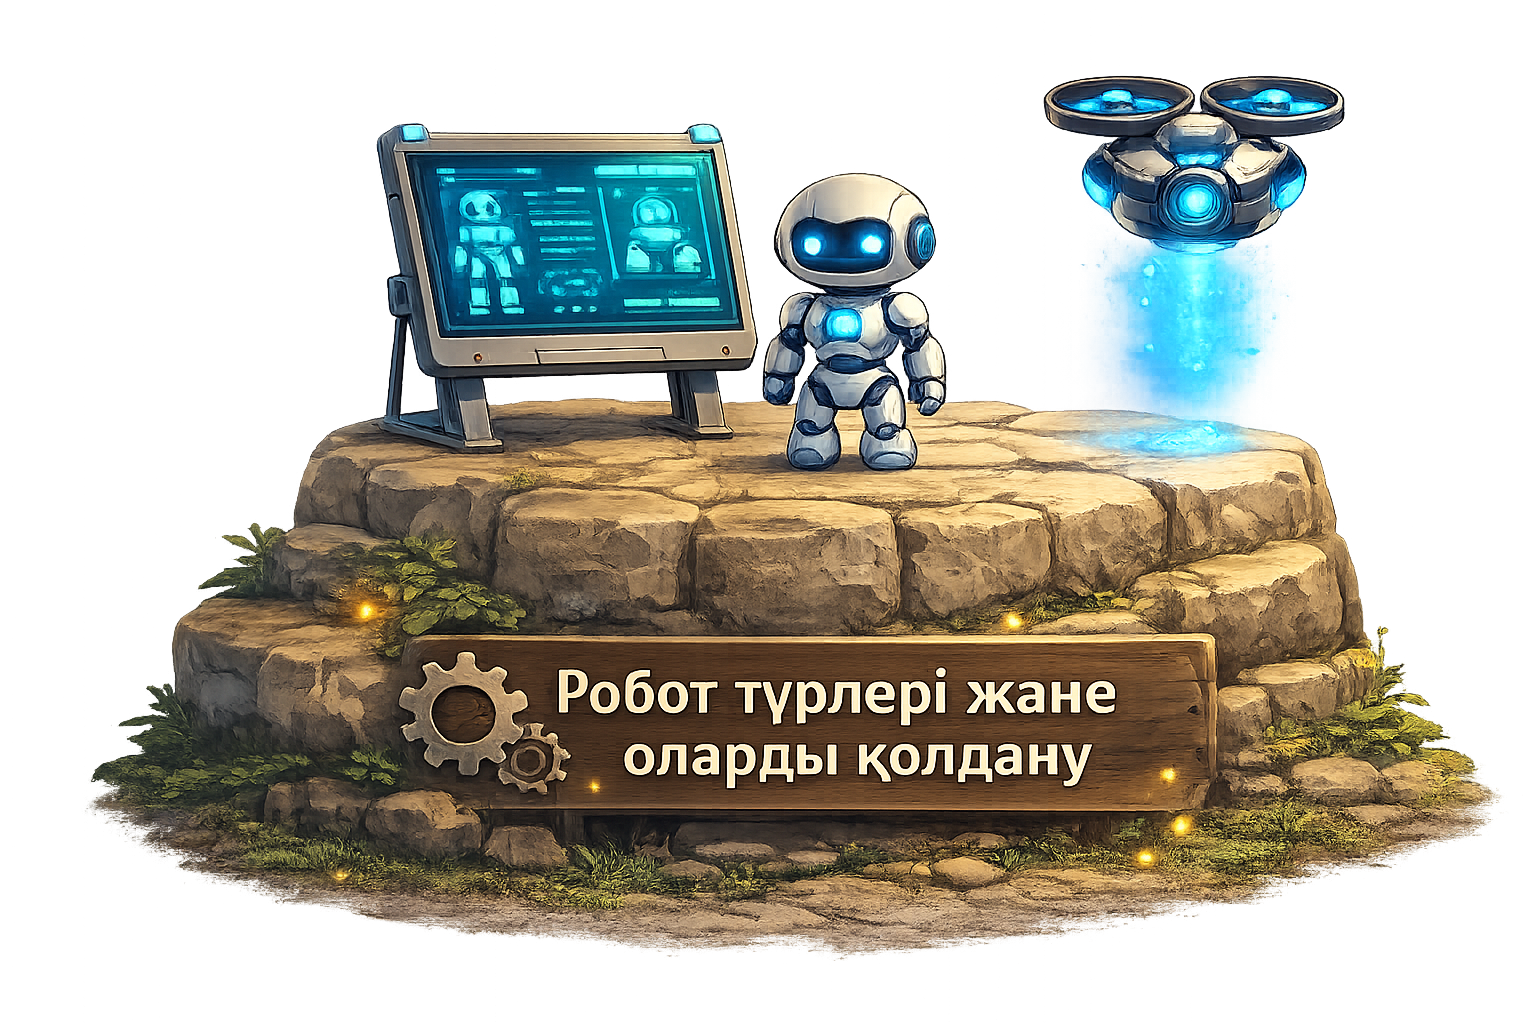
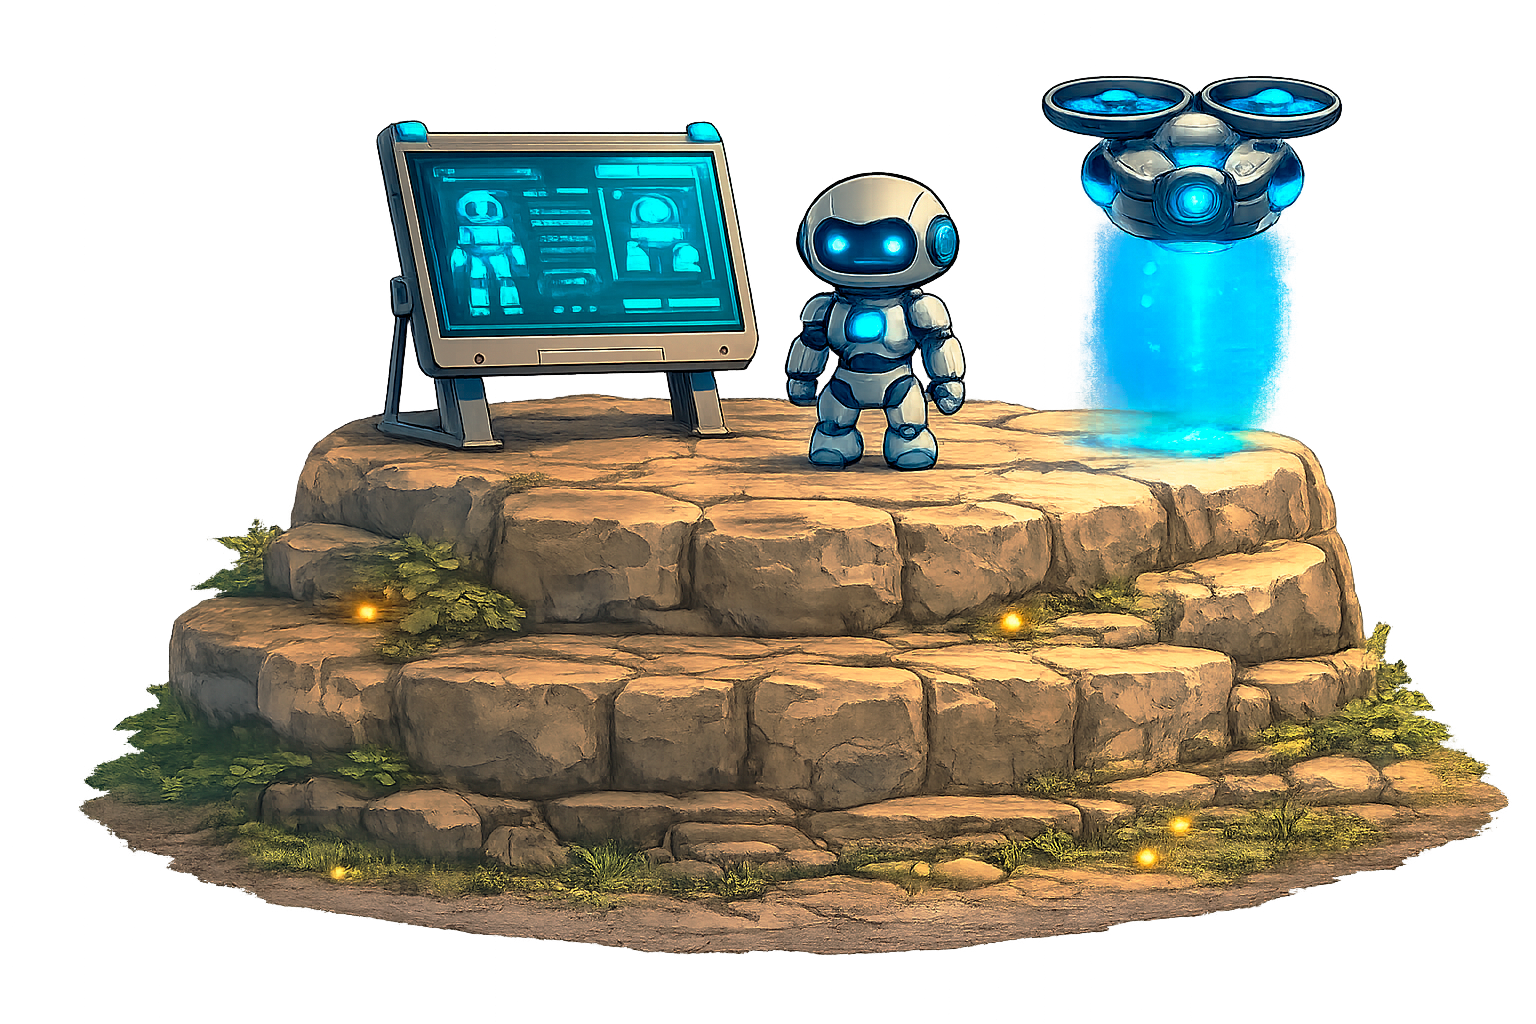
Fix

Changed region(s): [[0.0312, 0.0625, 1.0, 0.9375]]

diff --git a/templates/toqsan_3.html b/templates/toqsan_3.html
@@ -25,10 +25,10 @@
 
 <svg class="p-paths" viewBox="0 0 1000 600" preserveAspectRatio="none" aria-hidden="true">
 
-  <path id="path-01" d="M220,100 C200,100 300,180 500,100" />
-  <path id="path-12" d="M500,130 C600,150 700,80 800,90" />
-  <path id="path-23" d="M690,115 C550,150 400,300 400,300" />
-  <path id="path-34" d="M370,350 C330,380 300,400 200,470" />
+  <path id="path-01" d="M220,100 C200,100 300,180 450,120" />
+  <path id="path-12" d="M450,130 C600,150 700,80 750,100" />
+  <path id="path-23" d="M720,120 C550,150 400,300 420,310" />
+  <path id="path-34" d="M400,320 C330,380 300,400 200,470" />
   <path id="path-45" d="M180,450 C300,520 420,520 520,468" />
   <path id="path-56" d="M520,468 C640,520 760,460 820,396" />
 
@@ -56,38 +56,57 @@
       <div class="p-platform">
         <img class="p-platform-img" src="{{ url_for('static', filename='img/quest_1.png') }}" alt="">
       </div>
+      <div class="p-label">
+        <div class="p-label-title">Робот түрлері және оларды қолдану</div>
+      </div>
     </a>
 
     <!-- n2 -->
     <a class="p-node" id="n2" href="/puzzle/devices" aria-label="Растрлық суреттерді өңдеу">
       <div class="p-platform">
-        <img class="p-platform-img" src="{{ url_for('static', filename='img/quest_2.png') }}" alt="">
+        <img class="p-platform-img" src="{{ url_for('static', filename='img/quest_2.1.png') }}" alt="">
+      </div>
+      <div class="p-label">
+        <div class="p-label-title">Робототехника тарихы және оның перспиктивалары</div>
       </div>
     </a>
 
     <!-- n3 -->
     <a class="p-node" id="n3" href="/puzzle/graphics" aria-label="Векторлық суреттерді құру">
       <div class="p-platform">
-        <img class="p-platform-img" src="{{ url_for('static', filename='img/quest_3.png') }}" alt="">
+        <img class="p-platform-img" src="{{ url_for('static', filename='img/quest_3.1.png') }}" alt="">
+      </div>
+      <div class="p-label">
+        <div class="p-label-title">Гидроскопиялық датчик</div>
       </div>
     </a>
 
     <!-- n4 -->
     <a class="p-node" id="n4" href="/puzzle/ai" aria-label="Қисық бетімен жұмыс">
       <div class="p-platform">
-        <img class="p-platform-img" src="{{ url_for('static', filename='img/quest_4.png') }}" alt="">
+        <img class="p-platform-img" src="{{ url_for('static', filename='img/quest_4.1.png') }}" alt="">
+      </div>
+      <div class="p-label">
+        <div class="p-label-title">Бұрылыстар</div>
       </div>
     </a>
 
     <!-- n5 -->
     <a class="p-node p-finish" id="n5" href="/puzzle/final" aria-label="Растрлық және векторлық суреттерді салыстыру">
       <div class="p-platform">
-        <img class="p-platform-img" src="{{ url_for('static', filename='img/quest_5.png') }}" alt="">
+        <img class="p-platform-img" src="{{ url_for('static', filename='img/quest_5.1.png') }}" alt="">
+      </div>
+      <div class="p-label">
+        <div class="p-label-title">Роботтың сызық бойымен қозғалысы</div>
       </div>
     </a>
-        <a class="p-node p-finish" id="n6" href="/puzzle/final" aria-label="Растрлық және векторлық суреттерді салыстыру">
+
+    <a class="p-node p-finish" id="n6" href="/puzzle/final" aria-label="Растрлық және векторлық суреттерді салыстыру">
       <div class="p-platform">
-        <img class="p-platform-img" src="{{ url_for('static', filename='img/quest_final.png') }}" alt="">
+        <img class="p-platform-img" src="{{ url_for('static', filename='img/quest_final_1.png') }}" alt="">
+      </div>
+      <div class="p-label">
+        <div class="p-label-title">Робо-сумо</div>
       </div>
     </a>
 

diff --git a/templates/1module.html b/templates/1module.html
@@ -20,50 +20,47 @@
   <div class="map" id="map">
 
     <svg class="paths" viewBox="0 0 1000 600" preserveAspectRatio="none">
-      <!-- от ракеты к «компьютерлік» -->
+
       <path d="M110,410 C150,100 320,50 450,60" />
-      <!-- к геймпаду -->
-      <path d="M550,280 C560,280 680,250 560,120" />
-      <!-- к замку -->
+
+      <path d="M650,200 600,150 560,120" />
+
       <path d="M410,450 C450,550 490,260 600,420" />
-      <!-- к нижнему острову -->
+   
       <path d="M350,370 C450,200 180,240 140,420" />
 
       <path d="M660,470 C750,420 1050,700 875,440" />
-
+      
+      <path d="M870,430 855,400 825,350" />
       <path d="M820,340 C720,200 750,80 880,120" />
-      <path d="M890,125 C1100,280 780,350 550,290" />
+      <path d="M890,125 C1100,280 780,350 660,210" />
     </svg>
 
     <!-- Островки/модули (позиции в %) -->
     <a class="node" id="i1" href="/bolim1_1">
-      <div class="island"><img src="static/img/first.png" class="emoji" style="width:auto; height:30vh; transform: translate(0, -14vh);"></div>
+      <div class="island"><img src="static/img/first_1.png" class="emoji" style="width:auto; height:30vh; transform: translate(0, -10vh);"></div>
       <div class="label" style="font-size:2.5vh;">Айналамыздағы ақпарат</div>
     </a>
 
     <a class="node" id="i2" href="/bolim1_2">
-      <div class="island"><img src="static/img/second.png" class="emoji" style="width:auto; height:30vh; transform: translate(0, -14vh);"></div>
+      <div class="island"><img src="static/img/second_1.png" class="emoji" style="width:auto; height:30vh; transform: translate(0, -13vh);"></div>
       <div class="label" style="font-size:2.5vh;">Ақпаратты беру</div>
     </a>
 
     <a class="node" id="i3" href="/bolim1_3">
-      <div class="island"><img src="static/img/3.png" class="emoji" style="width:auto; height:30vh; transform: translate(0, -14vh);"></div>
+      <div class="island"><img src="static/img/3.1.png" class="emoji" style="width:auto; height:30vh; transform: translate(0, -12vh);"></div>
       <div class="label" style="font-size:2.5vh;">Ақпаратты шифрлау</div>
     </a>
 
     <a class="node" id="i4" href="/bolim1_4">
-      <div class="island"><img src="static/img/4.png" class="emoji" style="width:auto; height:35vh; transform: translate(-1vw, -18vh);"></div>
+      <div class="island"><img src="static/img/4.1.png" class="emoji" style="width:auto; height:35vh; transform: translate(0, -16vh);"></div>
       <div class="label" style="font-size:2.5vh;">Екілік ақпаратты көрсету</div>
     </a>
 
-    <a class="node"  id="i5" href="/bolim1_5">
-      <div class="island"><img src="static/img/finish.png" class="emoji" style="width:auto; height:20vh; transform: translate(2vw, -13vh);"></div>
-      <div class="label" style="font-size:2.5vh;">Бірінші бөлімнің қорытынды тапсырмалары</div>
-    </a>
 
     <a class="node" id="earth" href="/student">
-      <div class="label" style="font-size:2.5vh;">Басты бет</div>
-      <img src="static/img/earth.png" style="height:auto; width:6vw; box-shadow: 0 0 20px rgba(0,0,0,0.5); border-radius:8em;">
+      <img src="static/img/home.png" style="height:auto; width:18vw; border-radius:8em;">
+            <div class="label" style="font-size:2.5vh;">Басты бет</div>
     </a>
     <a class="node" id="saturn" >
       <img src="static/img/saturn.png" style="height:auto; width:10vw;">

diff --git a/static/css/toqsan_3.css b/static/css/toqsan_3.css
@@ -252,7 +252,7 @@ body::before {
 }
 
 .p-platform-img{
-  width: min(240px, 20vw);
+  width: min(300px, 30vw);
   height: auto;
   filter: drop-shadow(0 18px 34px rgba(0,0,0,0.45));
   z-index: 1;
@@ -462,4 +462,26 @@ body::before {
 @keyframes glowPulse{
   0%,100%{ stroke-dashoffset: 0; }
   50%{ stroke-dashoffset: -20; }
+}
+
+.p-label-title{
+  text-align: center;
+  line-height: 1.25;
+  font-weight: 700;
+
+  font-size: clamp(14px, 1.1vw, 12px);
+
+  white-space: normal;
+  word-wrap: break-word;
+  overflow-wrap: break-word;
+}
+.p-label{
+  margin-top: -5px;
+  padding: 10px 25px;
+  border-radius: 14px;
+  background: rgba(12, 18, 40, 0.55);
+  border: 1px solid rgba(255,255,255,0.18);
+  backdrop-filter: blur(6px);
+  box-shadow: 0 10px 22px rgba(0,0,0,0.25);
+  max-width: 340px;
 }

diff --git a/static/css/1module.css b/static/css/1module.css
@@ -103,8 +103,8 @@ body::before{
 .node:hover { transform: translate(-50%, -50%) scale(1.05); filter: brightness(1.06); }
 
 #i1{
-  top:20vh;
-  left: 50vw;
+  top:26vh;
+  left: 22vw;
 }
 
 #i2{
@@ -129,11 +129,11 @@ body::before{
 
 #earth{
   left: 50%;
-  top: 45%;
+  top: 15%;
   display: flex;
   flex-direction: column;
   align-items: center;
-  gap: 10px;
+  gap: 5px;
 }
 #earth .label{
   padding: 1vh 1.2vw;
@@ -164,12 +164,8 @@ body::before{
   position: relative;
   width: 10vw;
   height: 12vh;
-  background: radial-gradient(120% 100% at 70% 40%, #2e9e47 0 65%, #2a8a3f 66% 100%);
-  border-radius: 45% 55% 50% 50%;
-  box-shadow: 0 2vh 0 0 #f7cda1, 0 16px 24px #0003;
   display:flex; 
   justify-content:center;
-  margin-bottom: 2vh;
 }
 .island::after{
   content:"";
@@ -188,7 +184,7 @@ body::before{
 }
 .label{
   display: inline-block;
-  padding: 10px 14px;
+  padding: 7px 14px;
   border-radius: 14px;
   background: rgba(10, 20, 50, 0.55);
   border: 1px solid rgba(255,255,255,0.16);

diff --git a/templates/student.html b/templates/student.html
@@ -31,22 +31,22 @@
 
     <section class="s-classes">
       <a class="s-class-card s-c5" href="/1module">
-        <div class="s-class-title">Ақпарат галактикасы</div>
+        <div class="s-class-title">Ақпаратты ұсыну</div>
         <div class="s-class-cta">⭐ 1-тоқсан ойындары›</div>
       </a>
 
       <a class="s-class-card s-c6" href="/toqsan_2">
-        <div class="s-class-title">Пазл әлемі</div>
+        <div class="s-class-title">Компьютерлік графика</div>
         <div class="s-class-cta">⭐ 2-тоқсан ойындары›</div>
       </a>
 
       <a class="s-class-card s-c7" href="/toqsan_3">
-        <div class="s-class-title">Квест жолы</div>
+        <div class="s-class-title">Робототехника</div>
         <div class="s-class-cta">⭐ 3-тоқсан ойындары›</div>
       </a>
 
-      <a class="s-class-card s-c8" href="/toqsan_4.">
-        <div class="s-class-title">Жасанды интеллект зертханасы</div>
+      <a class="s-class-card s-c8" href="/toqsan_4">
+        <div class="s-class-title">Компьютер және қауіпсіздік</div>
         <div class="s-class-cta">⭐ 4-тоқсан ойындары></div>
       </a>
     </section>

diff --git a/static/css/student.css b/static/css/student.css
@@ -493,19 +493,19 @@ body{
 
 /* 1 карточка */
 .s-c5{
-  background-image: url("/static/img/toqsan_1.png");
+  background-image: url("/static/img/module_1.png");
 }
 
 .s-c6{
-  background-image: url("/static/img/toqsan_2.png");
+  background-image: url("/static/img/module_2.png");
 }
 
 .s-c7{
-  background-image: url("/static/img/toqsan_3.png");
+  background-image: url("/static/img/module_3.png");
 }
 
 .s-c8{
-  background-image: url("/static/img/toqsan_4.png");
+  background-image: url("/static/img/module_4.png");
 }
 
 .s-class-card{

diff --git a/templates/teacher.html b/templates/teacher.html
@@ -41,7 +41,7 @@
                 src="{{ url_for('static', filename='img/book2.png') }}"
                 alt="book">
             <div>
-              <div class="portal-card-title">Геймификацияға бойынша ғылыми еңбектер</div>
+              <div class="portal-card-title">Геймификация бойынша ғылыми еңбектер</div>
             </div>
           </div>
         </div>
@@ -56,7 +56,6 @@
                 alt="help">
             <div>
               <div class="portal-card-title">Теориялық білім</div>
-              <div class="portal-card-sub">Геймификация дегеніміз не?</div>
             </div>
           </div>
         </div>